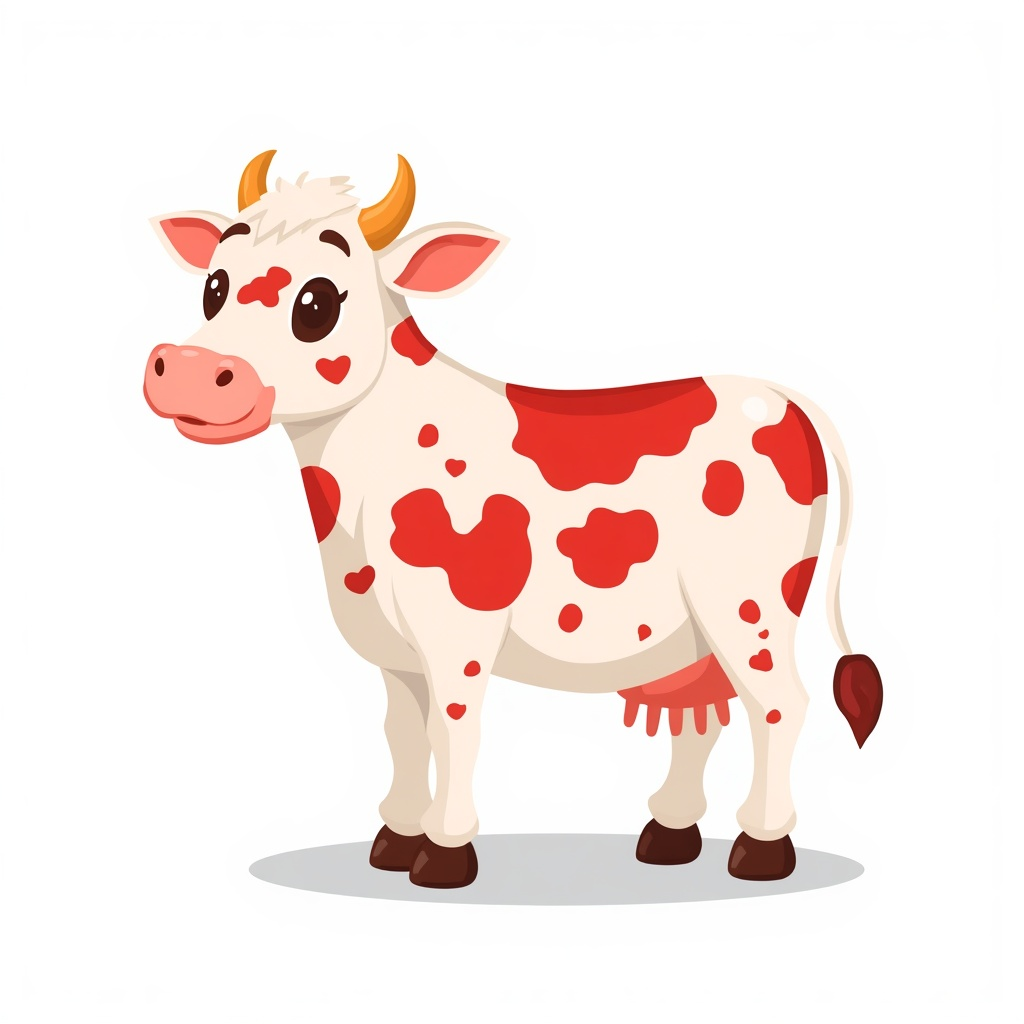
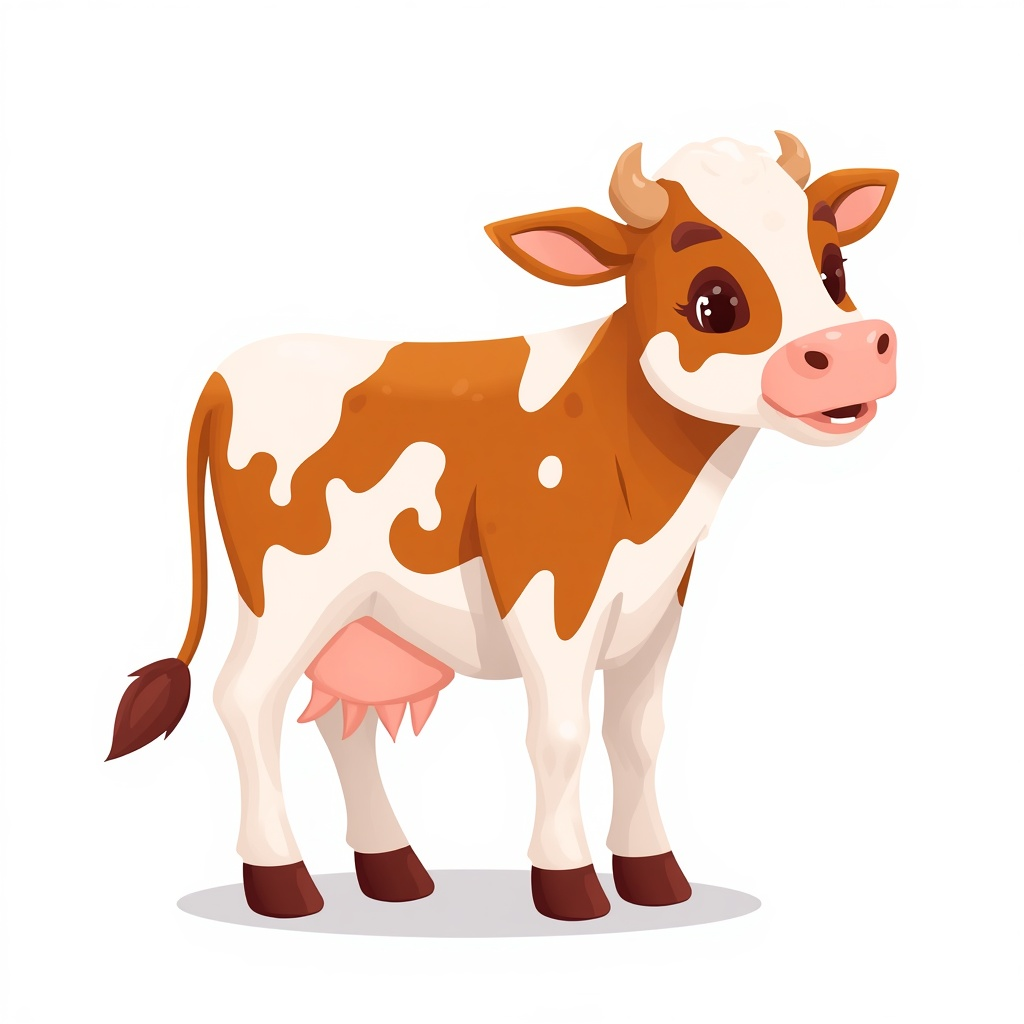
Переснять симментальскую, нарисовать пса и кота
Симментальская была клубничной: слово red фильтр пропускает, но и рисует
буквально красным. Пересняли на warm chestnut — тот же обход, что
выручил с бурым гусем. Новая смотрит вправо, поэтому убрал её из
flip.txt: иначе развернуло бы спиной ко двору.

Пёс и кот были эмодзи в шапке. Высоту в строке задал по картинке, а
ширину оставил свободной: сидящий зверь уже квадрата, и квадрат бы его
сплющил.

Claude-Session: https://claude.ai/code/session_013ovumMuRfj2SmgMR5kzGwz

diff --git a/public/index.html b/public/index.html
@@ -39,7 +39,10 @@ button{font:inherit;color:inherit;cursor:pointer}
 .nickbox small{color:var(--ink-soft);font-size:11px}
 .meters{display:flex;flex-direction:column;gap:3px;flex:1 1 170px;min-width:150px}
 .mrow{display:flex;align-items:center;gap:5px}
-.mrow>i{font-style:normal;font-size:13px;width:15px;text-align:center;flex:none}
+.mrow>i{font-style:normal;font-size:13px;width:22px;text-align:center;flex:none}
+/* Пёс и кот — картинками, а не эмодзи. Высота по строке, ширина своя:
+   сидящий зверь уже, чем квадрат, и квадрат бы его сплющил. */
+.mrow>i img.pet{width:auto;height:20px;vertical-align:middle;image-rendering:auto}
 .bar{position:relative;height:12px;flex:1;border:2px solid var(--wood-dk);border-radius:7px;background:#7a5a37;overflow:hidden}
 .bar span{position:absolute;inset:0;width:0}
 .bar em{position:absolute;inset:0;display:grid;place-items:center;font-style:normal;font-size:9px;font-weight:700;
@@ -335,8 +338,9 @@ body.booting #app, body.booting .dock{visibility:hidden}
     <div class="nickbox"><b id="nick">test123 12345</b><small>ур. <span class="num" id="lvl">1</span></small></div>
     <div class="meters">
       <div class="mrow"><i>⭐</i><div class="bar xp"><span id="xpbar"></span><em id="xptxt"></em></div></div>
-      <div class="mrow"><i>🐕</i><div class="bar dog"><span id="dogbar"></span><em id="dogtxt"></em></div></div>
-      <div class="mrow"><i>🐈</i><div class="bar cat"><span id="catbar"></span><em id="cattxt"></em></div></div>
+      <div class="mrow"><i><img class="pet" src="img/iso/prop-dog.png" alt="Пёс"></i><div class="bar dog"><span id="dogbar"></span><em id="dogtxt"></em></div></div>
+      <div class="mrow"><i><img class="pet" src="img/iso/prop-cat.png" alt="Кот">
+</i><div class="bar cat"><span id="catbar"></span><em id="cattxt"></em></div></div>
       <div class="mrow"><i>⚡</i><div class="bar en"><span id="enbar"></span><em id="entxt"></em></div></div>
     </div>
     <div class="purse">

diff --git a/docs/ART-TODO.md b/docs/ART-TODO.md
@@ -53,7 +53,7 @@ python3 tools/import-art.py картинка.png <id>
 | ✅ | `breed-mirgorod.png` | Миргородская | Свинарник | 9 | Рябая: розовая с чёрными пятнами |
 | ✅ | `breed-holmkor.png` | Холмогорская | Коровник | 10 | Чёрно-пёстрая, розовое вымя |
 | ✅ | `breed-landras.png` | Ландрас | Свинарник | 11 | Ровно-розовая без пятен, уши торчком |
-| ✅ | `breed-simment.png` | Симментальская | Коровник | 13 | Бело-красная в пятнах, белая голова |
+| ✅ | `breed-simment.png` | Симментальская | Коровник | 13 | Рыже-пёстрая, белая голова |
 | ✅ | `breed-krupbel.png` | Крупная белая | Свинарник | 13 | Круглая розовая, уши висят на глаза |
 | ✅ | `breed-vladimir.png` | Владимирский тяжеловоз | Конюшня | 14 | Гнедой; масть доведена перекраской |
 
@@ -130,9 +130,10 @@ cute cartoon farm horse with a brown coat, a black mane and tail, and thick shag
 только силуэт: если бы уши у ландраса вышли висячими, как просили
 сначала, пришлось бы одну резать.
 
-Коровник закрыт: чёрно-пёстрая и бело-красная — в плитке не спутать.
-Пятна у симментальской вышли ярче, чем у настоящей породы, скорее
-клубничные, чем рыжие, но масть от холмогорской отличают уверенно.
+Коровник закрыт: чёрно-пёстрая и рыже-пёстрая — в плитке не спутать.
+С первого раза симментальская вышла клубничной: слово `red` фильтр
+пропускает, но и рисует буквально красным. Пересняли на `warm chestnut` —
+тот же обход, что выручил с бурым гусем.
 
 Курятник закрыт: шесть пород, у каждой своя масть — белая, чёрная, белая
 высокая, рыжая с белой головой, тёмная с кремовым хохлом, рыжая. Десять сначала
@@ -232,24 +233,12 @@ cute cartoon open paper sack filled with golden grain pellets, 3/4 view, hand-pa
 головой она выглядит пятном. Показывается он в самом низу двора, так что
 при прокрутке вверх его не видно: это не поломка, просто он ниже сгиба.
 
-Пёс и кот пока эмодзи в шапке — если дашь картинки, заведу им спрайты тем
-же флагом `--prop`.
+Пёс и кот тоже заменены: сидят в шапке рядом со своими полосками сытости,
+`prop-dog.png` и `prop-cat.png`. Сидящая фигура там читается лучше стоящей —
+места в строке мало.
 
-```text
-Пёс
-cute cartoon shaggy farm dog sitting, with warm chestnut and white fur and floppy ears, 3/4 view facing right, hand-painted 2D casual game art, plain flat background
-
-Кот
-cute cartoon farm cat sitting with a fluffy tail, grey and white striped fur, 3/4 view facing right, hand-painted 2D casual game art, plain flat background
-```
-
-Симментальскую стоит переснять: пятна вышли ярко-красными, скорее
-клубничными, чем рыжими. Слово `red` фильтр пропускает, но и рисует
-буквально красным, поэтому берём обход, сработавший на гусе:
-
-```text
-cute cartoon dairy cow with warm chestnut and white patches and a white face, 3/4 view facing right, full body standing, hand-painted 2D casual game art, plain flat background
-```
+Рисованного в игре больше не осталось ничего пиксельного и ничего
+подставленного не по смыслу.
 
 ## Откуда что взялось
 
